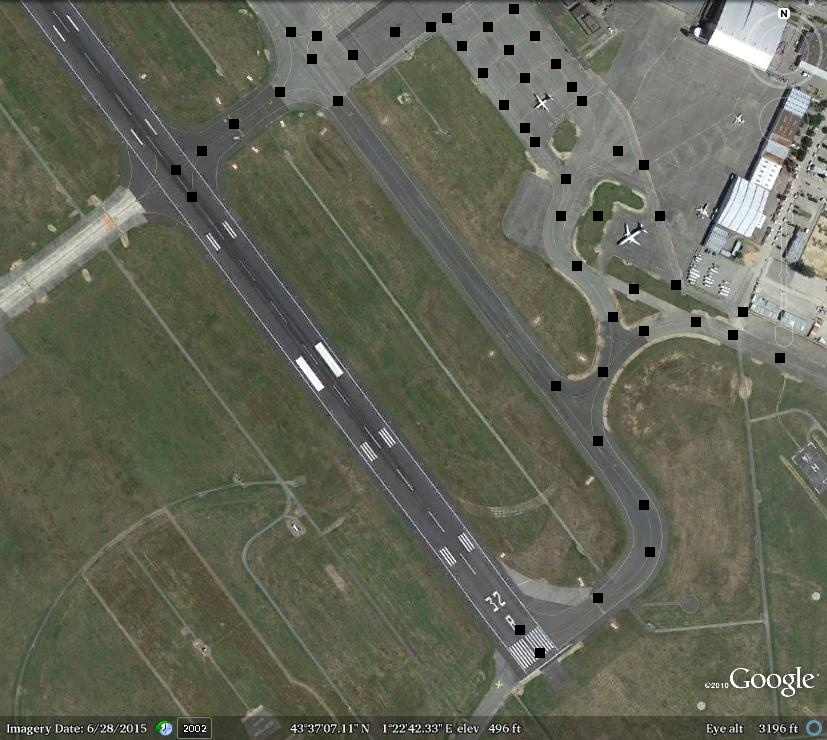
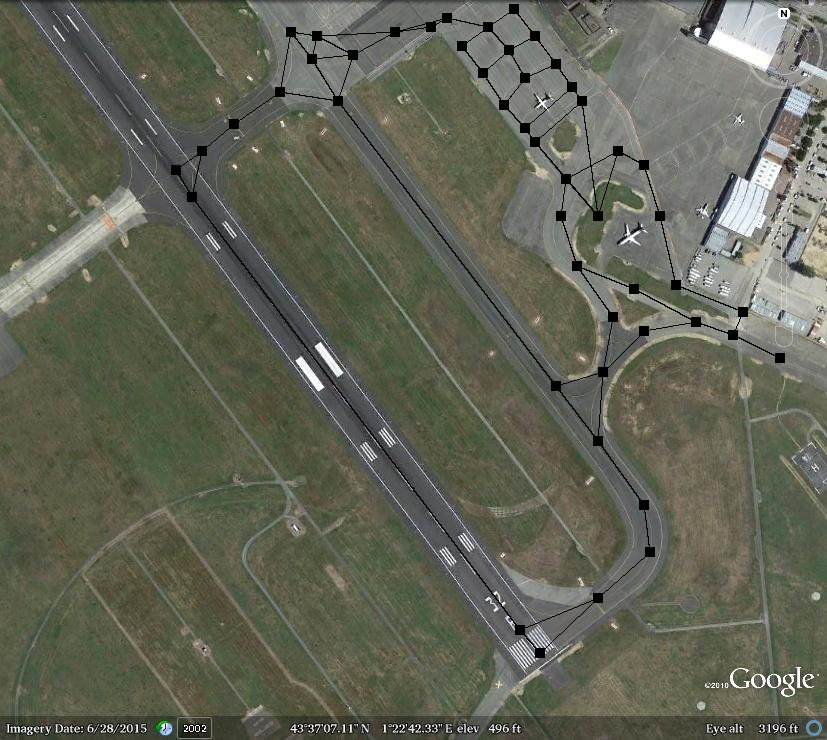
ajout des arcs sur le graphe de blagnac

Changed region(s): [[0.6953, 0.5595, 0.7255, 0.5905], [0.6953, 0.2486, 0.7255, 0.2797]]

diff --git a/Annexe/Affichage_graphe/appliquer_graphe.cpp b/Annexe/Affichage_graphe/appliquer_graphe.cpp
@@ -30,16 +30,47 @@ float traiter_ligne_y(std::string line)
                 int pos_bracky=line.find('}',pos_y);
                 std::string ys=line.substr(pos_y+4, pos_bracky-pos_y-4);
 		y=strtof(ys.c_str(), NULL);
-		y=strtof(ys.c_str(), NULL);
         }
         return y;
 }
+
+int traiter_ligne_noeud1(std::string line)
+{
+	int n=66;
+	int pos_N=line.find('N');
+        if (pos_N>=0)
+        {
+                int pos_guill=line.find('"',pos_N);
+                std::string ns=line.substr(pos_N+1, pos_guill-pos_N-1);
+		n=strtol(ns.c_str(), NULL,0);
+        }
+
+	return n;
+}
+
+int traiter_ligne_noeud2(std::string line)
+{
+	int n=7;
+	int pos_N=line.find('N',11);
+        if (pos_N>=0)
+        {
+                int pos_guill=line.find('"',pos_N);
+                std::string ns=line.substr(pos_N+1, pos_guill-pos_N-1);
+		n=strtol(ns.c_str(), NULL,0);
+        }
+
+	return n;
+}
+
  
-void graphe_vers_liste(std::vector<float> &LX, std::vector<float> &LY)
+void graphe_vers_liste(std::vector<float> &LX, std::vector<float> &LY,std::vector<int> &LN1,std::vector<int> &LN2)
 {
         std::ifstream fichier("test.graph", std::ios::in);  // on ouvre en lecture
 	float x;
 	float y;
+	int n1;
+	int n2;
+	bool noeud=false;
 
         if(fichier)  // si l'ouverture a fonctionné
         {	
@@ -55,6 +86,21 @@ void graphe_vers_liste(std::vector<float> &LX, std::vector<float> &LY)
 				LX.push_back(x);
 				LY.push_back(y);
 			}
+			if(noeud)
+			{	
+			test=ligne.find('N');
+				if (test>=0)
+				{
+					n1=traiter_ligne_noeud1(ligne);
+					n2=traiter_ligne_noeud2(ligne);
+					LN1.push_back(n1);
+					LN2.push_back(n2);
+				}
+			}
+
+			int test2=ligne.find("edge");
+			if (test2>=0)
+				noeud=true;
         	}      
  
                fichier.close();
@@ -71,8 +117,8 @@ void graphe_vers_liste(std::vector<float> &LX, std::vector<float> &LY)
 int main()
 {
 	std::vector<float> LX,LY;
-
-	graphe_vers_liste(LX,LY);
+	std::vector<int> LN1,LN2;
+	graphe_vers_liste(LX,LY,LN1,LN2);
 	
         std::ofstream fichier("tableau.txt", std::ios::out | std::ios::trunc);
 	if (fichier)
@@ -86,7 +132,17 @@ int main()
 		{
 			fichier<<LY[i]<<" ";
 		}
-	
+			fichier<<std::endl;
+		for (int i=0; i<LN1.size();i++)
+		{
+			fichier<< LN1[i]<<" ";	
+		}
+			fichier<<std::endl;
+		for (int i=0; i<LN2.size();i++)
+		{
+			fichier<<LN2[i]<<" ";
+		}
+
 	fichier.close();
 	}
 	return 0;

diff --git a/Annexe/Affichage_graphe/appliquer_tableau.py b/Annexe/Affichage_graphe/appliquer_tableau.py
@@ -5,12 +5,17 @@ tableau=open("tableau.txt","r")
 ligne=[]
 LX=[]
 LY=[]
+LN1=[]
+LN2=[]
+
 
 for l in tableau:
 	ligne.append(l)
 
 l1=ligne[0]
 l2=ligne[1]
+l3=ligne[2]
+l4=ligne[3]
 
 for el in l1.split(' '):
 	LX.append(el)
@@ -18,11 +23,23 @@ for el in l1.split(' '):
 for el in l2.split(' '):
 	LY.append(el)
 
+for el in l3.split(' '):
+	LN1.append(el)
+
+for el in l4.split(' '):
+	LN2.append(el)
+
+
 del LX[-1]
 del LY[-1]
-
+del LN1[-1]
+del LN2[-1]
 
 tableau.close()
+
+
+
+
 
 
 for i in range(len(LX)):
@@ -38,6 +55,47 @@ for i in range(len(LX)):
 	for taillex in range(10):
 		for tailley in range(10):
 			image[LY[i]-5+taillex][LX[i]-5+tailley]=(0, 0, 0)
+
+for i in range(len(LN1)):
+	LN1[i]=float(LN1[i])
+
+
+for i in range(len(LN1)):
+	LN1[i]=int(LN1[i])-1
+for i in range(len(LN2)):
+	LN2[i]=int(LN2[i])-1
+
+
+for i in range(len(LN1)):
+
+	deltax=float(LX[LN2[i]]-LX[LN1[i]])
+	deltay=float(LY[LN2[i]]-LY[LN1[i]])
+
+	a=deltay/deltax
+	b=-a*LX[LN1[i]]+LY[LN1[i]]
+
+	X=range(abs(LX[LN2[i]]-LX[LN1[i]]))
+	for x in X:
+		y=int(a*(x+min(LX[LN1[i]],LX[LN2[i]]))+b)
+		image[y][x+min(LX[LN1[i]],LX[LN2[i]])]=(0, 0, 0)
+	
+	Y=range(abs(LY[LN2[i]]-LY[LN1[i]]))
+	for y in Y:
+		x=int( ( y+min(LY[LN1[i]],LY[LN2[i]]) - b)/a  )
+		image[y+min(LY[LN1[i]],LY[LN2[i]])][x]=(0, 0, 0)
+
+
+
+
+
+
+
+
+
+
+
+
+
 
 
 
